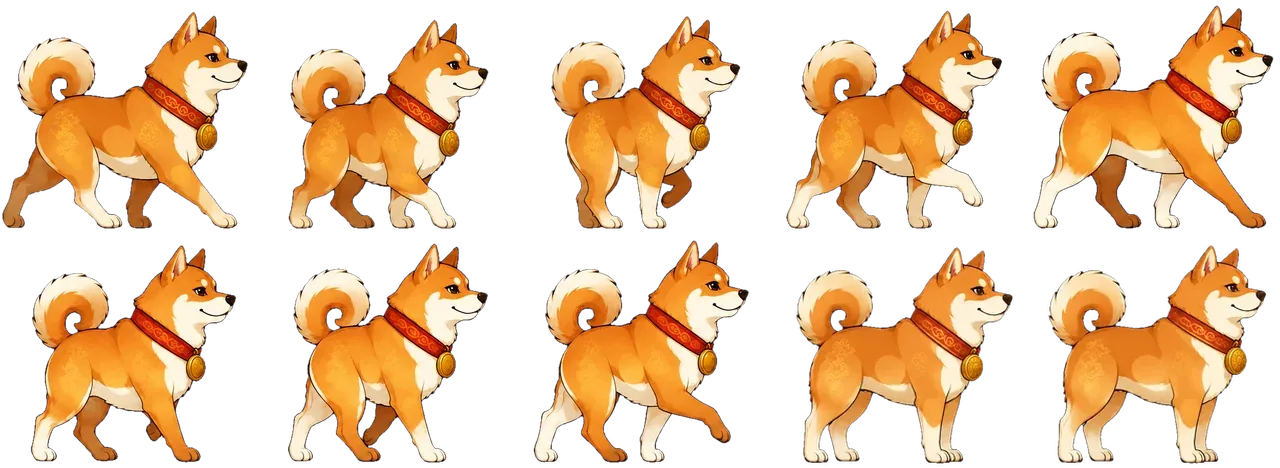
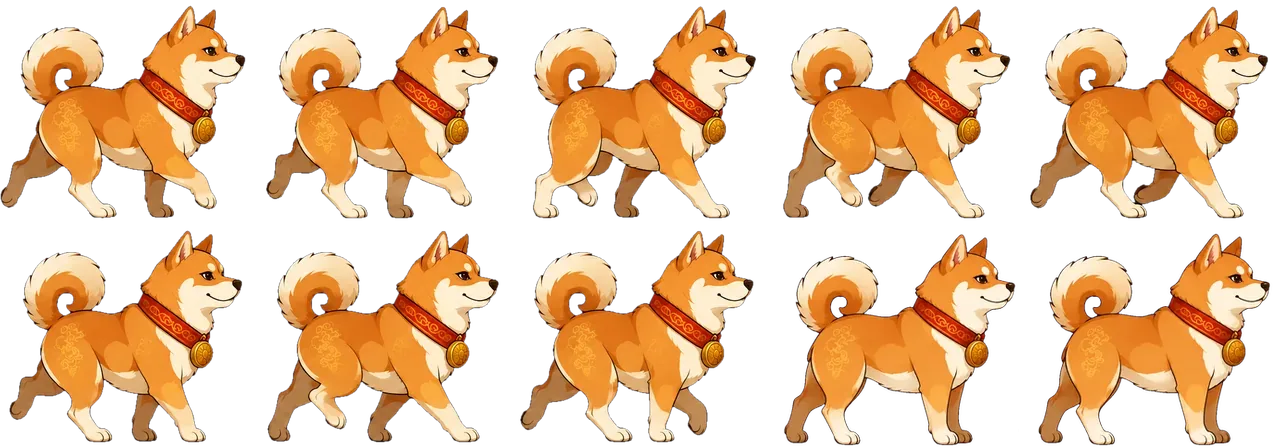
Thú bốn chân: bước đi nhịp so le (bốn bàn chân luôn ở bốn chỗ khác nhau)
Lớp lỗi: lưới trước bắt hai chân cùng bước tới, hai chân cùng lùi, nên bốn bàn chân dồn thành hai cụm
và mắt đọc ra hai chân kéo kéo. Bước đi thật của thú bốn chân là nhịp bốn thì: mỗi chân lệch pha 1/4 vòng.

- Trâu, hổ, mèo, dê, chó, heo: lưới 8 khung sinh theo đặc tả từng chân ở từng khung (chân phía xa sẫm hơn),
  hai khung đứng nghỉ vẽ lại từ chính khung bước mới để cùng kiểu thân.
- Test đo cặp khung có dáng chân khác nhau nhất trong chu kỳ (vùng chân, IoU <= 0,62) thay cho so khung 0 với khung 2.

Claude-Session: https://claude.ai/code/session_01RuPofRMvzvZPPPoDv3dRha

diff --git a/tests/test_nhap_va_lich.py b/tests/test_nhap_va_lich.py
@@ -123,16 +123,17 @@ def _iou(a, b):
 @pytest.mark.parametrize("khoa", CON_GIAP)
 def test_chu_ky_buoc_co_dong_tac_that(khoa):
     """Lớp lỗi từng xảy ra: sprite 12 khung do AI vẽ có chân gần như đứng yên (bàn chân cố định qua cả chu kỳ),
-    nên làm chậm hay nhanh đều không giống bước đi. Đo trên dữ liệu thật: khung chạm đất và khung chân chụm
-    phải có dáng chân KHÁC nhau rõ (IoU nửa dưới ≤ 0,60 với con có chân); rắn/rồng phải có sóng uốn khác pha."""
+    nên làm chậm hay nhanh đều không giống bước đi. Đo trên dữ liệu thật: hai khung khác nhau nhất trong chu kỳ
+    phải có dáng chân KHÁC nhau rõ (IoU vùng chân ≤ 0,62 với con có chân); rắn/rồng phải có sóng uốn khác pha."""
     im = Image.open(THU / f"{khoa}.webp")
     f = [_khung(im, i) for i in range(10)]
     h = f[0].shape[0]
     if khoa in KHONG_CHAN:
         assert _iou(f[0], f[4]) <= 0.80, "khung 0 và 4 (lệch nửa chu kỳ) gần như trùng, thân không uốn"
     else:
-        chan = lambda m: m[int(h * 0.55):, :]
-        assert _iou(chan(f[0]), chan(f[2])) <= 0.60, "chân khung chạm đất và khung chân chụm gần như trùng"
+        chan = lambda m: m[int(h * 0.65):, :]    # vùng chân: 35% dưới của khung
+        gan_nhat = min(_iou(chan(f[i]), chan(f[j])) for i in range(8) for j in range(i + 1, 8))
+        assert gan_nhat <= 0.62, "trong cả chu kỳ không có hai khung nào chân khác nhau rõ: chân gần như đứng yên"
         assert _iou(chan(f[8]), chan(f[0])) <= 0.90, "tư thế đứng nghỉ giống hệt tư thế bước"
 
 

diff --git a/README.md b/README.md
@@ -24,7 +24,7 @@ Xé tờ (nhấc mép, lật bay lên để lộ tờ ngày hôm sau) và lật 
 <p align="center"><img src="docs/anh/xe-to.webp" alt="Các mốc xé tờ"></p>
 <p align="center"><img src="docs/anh/lat-thang.webp" alt="Các mốc lật tháng"></p>
 
-Mười hai con giáp, mỗi con một sprite 10 khung: 8 khung của một chu kỳ bước thật (chạm đất, hạ thấp, chân chụm, nhấc cao, rồi lặp lại với chân kia dẫn trước; chân và tay phía xa vẽ sẫm hơn nên thấy rõ hai chân luân phiên; ngựa phi có pha gom chân; rắn và rồng uốn sóng từ đầu về đuôi) cùng 2 khung đứng nghỉ:
+Mười hai con giáp, mỗi con một sprite 10 khung: 8 khung của một chu kỳ bước thật (chạm đất, hạ thấp, chân chụm, nhấc cao, rồi lặp lại với chân kia dẫn trước; chân và tay phía xa vẽ sẫm hơn nên thấy rõ các chân luân phiên; thú bốn chân đi nhịp so le, mỗi chân lệch pha một phần tư vòng nên bốn bàn chân luôn ở bốn chỗ khác nhau; ngựa phi có pha gom chân; rắn và rồng uốn sóng từ đầu về đuôi) cùng 2 khung đứng nghỉ:
 
 <p align="center"><img src="docs/anh/12-con-giap.webp" alt="Mười hai con giáp"></p>
 
@@ -75,7 +75,7 @@ Dịch vụ `lich_viet.convert_date` quy đổi dương ↔ âm và trả về t
 
 ## Nhẹ cho dashboard
 
-- Con vật là **sprite WebP** (10 khung, khoảng 1,6 MB cho cả 12 con), phát bằng CSS; **không có vòng lặp JavaScript**. Mỗi tờ chỉ tải con và ảnh nền của ngày đó (khoảng 20 KB mỗi ảnh nền).
+- Con vật là **sprite WebP** (10 khung, khoảng 1,7 MB cho cả 12 con), phát bằng CSS; **không có vòng lặp JavaScript**. Mỗi tờ chỉ tải con và ảnh nền của ngày đó (khoảng 20 KB mỗi ảnh nền).
 - Con vật bước 6 giây rồi đứng nghỉ 25 giây (đổi bằng `chay_giay`, `nghi_giay`); lúc nghỉ con vật đứng thẳng và thở nhẹ (hai khung đứng nghỉ mờ chuyển qua lại); thẻ **tự dừng hẳn** khi ra khỏi màn hình hoặc tab bị ẩn; tôn trọng «giảm chuyển động» của hệ điều hành.
 - Đo trong Chrome không GPU: luồng chính ~2,8% khi con vật chạy, 0,0% khi nghỉ (hai thẻ cùng lúc).
 
